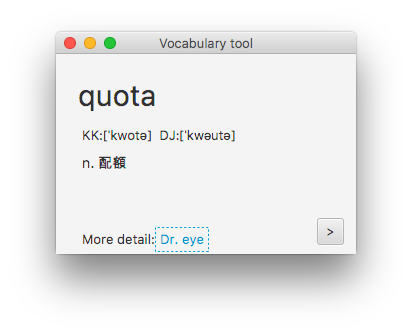
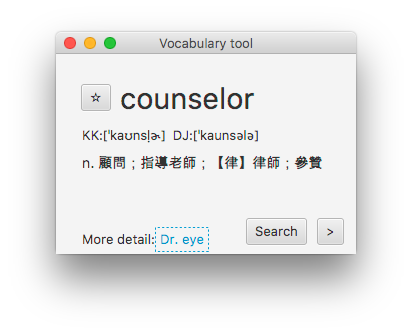
Add favorite function
Enable favorite button and save favorite list to local disk.

diff --git a/src/futin/view/MainController.java b/src/futin/view/MainController.java
@@ -3,6 +3,8 @@ package futin.view;
 import futin.Main;
 import futin.Parameter;
 import futin.Vocabulary;
+import futin.util.FileUtils;
+import futin.util.TextUtils;
 import javafx.event.ActionEvent;
 import javafx.fxml.FXML;
 import javafx.scene.control.Button;
@@ -42,6 +44,11 @@ public class MainController {
     private Label mLoadingLabel;
 
     @FXML
+    private Button mStarButton;
+
+    private Vocabulary mCurrentVocabulary;
+
+    @FXML
     private void initialize() {
         mChineseLabel.setWrapText(true);
         mChineseLabel.setTextAlignment(TextAlignment.JUSTIFY);
@@ -65,6 +72,9 @@ public class MainController {
                     e.printStackTrace();
                 }
             });
+
+            mCurrentVocabulary = vocabulary;
+            updateStartItUI(isFavoriteVocabulary(mCurrentVocabulary));
         }
     }
 
@@ -81,11 +91,13 @@ public class MainController {
     public void loadingNextVocabulary() {
         showLoadingNextVocabulary();
         mNextButton.setVisible(false);
+        mStarButton.setVisible(false);
     }
 
     public void finishLoadingNextVocabulary() {
         hideLoadingNextVocabulary();
         mNextButton.setVisible(true);
+        mStarButton.setVisible(true);
     }
 
     @FXML
@@ -97,6 +109,34 @@ public class MainController {
                     mMain.nextVocabulary();
                 }
             });
+            thread.start();
         }
+    }
+
+    @FXML
+    private void handleStarIt() {
+        if (mCurrentVocabulary != null && !isFavoriteVocabulary(mCurrentVocabulary)) {
+            java.util.List<Vocabulary> favoriteVocabularies = FileUtils.readVocabularyList(FileUtils.getSaveFile());
+            favoriteVocabularies.add(mCurrentVocabulary);
+            updateStartItUI(true);
+            FileUtils.saveVocabularyList(FileUtils.getSaveFile(), favoriteVocabularies);
+        }
+    }
+
+    void updateStartItUI(boolean isStar) {
+        mStarButton.setText(isStar ? "★" : "☆");
+    }
+
+    boolean isFavoriteVocabulary(Vocabulary vocabulary) {
+        if (vocabulary == null || TextUtils.isEmpty(vocabulary.getEnglish())) {
+            return false;
+        }
+        java.util.List<Vocabulary> favoriteVocabularies = FileUtils.readVocabularyList(FileUtils.getSaveFile());
+        for (Vocabulary tmpVoc : favoriteVocabularies) {
+            if (TextUtils.equals(tmpVoc.getEnglish(), vocabulary.getEnglish())) {
+                return true;
+            }
+        }
+        return false;
     }
 }

diff --git a/src/futin/util/FileUtils.java b/src/futin/util/FileUtils.java
@@ -1,0 +1,65 @@
+package futin.util;
+
+import futin.Vocabulary;
+import futin.model.VocabularyListWrapper;
+import javafx.scene.control.Alert;
+
+import javax.xml.bind.JAXBContext;
+import javax.xml.bind.Marshaller;
+import javax.xml.bind.Unmarshaller;
+import java.io.File;
+import java.util.ArrayList;
+import java.util.List;
+
+public class FileUtils {
+
+    private static final String SAVE_PATH = "./favorite_list.xml";
+
+    public static File getSaveFile() {
+        return new File(SAVE_PATH);
+    }
+
+    public static List<Vocabulary> readVocabularyList(File file) {
+        List<Vocabulary> vocabularyList = new ArrayList<>();
+        try {
+            JAXBContext context = JAXBContext.newInstance(VocabularyListWrapper.class);
+            Unmarshaller um = context.createUnmarshaller();
+
+            VocabularyListWrapper wrapper = (VocabularyListWrapper) um.unmarshal(file);
+            vocabularyList = wrapper.getVocabularyList();
+        } catch (Exception e) {
+            Alert alert = new Alert(Alert.AlertType.ERROR);
+            alert.setTitle("Error");
+            alert.setHeaderText("Could not load favorite vocabularies");
+            alert.setContentText("Could not load favorite vocabularies from file:\n" + file.getPath());
+
+            alert.showAndWait();
+        }
+        if (vocabularyList == null) {
+            vocabularyList = new ArrayList<>();
+        }
+        return vocabularyList;
+    }
+
+    public static void saveVocabularyList(File file, List<Vocabulary> vocabularyList) {
+        if (vocabularyList != null) {
+            try {
+                JAXBContext context = JAXBContext.newInstance(VocabularyListWrapper.class);
+                Marshaller m = context.createMarshaller();
+                m.setProperty(Marshaller.JAXB_FORMATTED_OUTPUT, true);
+
+                VocabularyListWrapper wrapper = new VocabularyListWrapper();
+                wrapper.setVocabularyList(vocabularyList);
+
+                m.marshal(wrapper, file);
+            } catch (Exception e) {
+                Alert alert = new Alert(Alert.AlertType.ERROR);
+                alert.setTitle("Error");
+                alert.setHeaderText("Could not save favorite vocabularies");
+                alert.setContentText("Could not save favorite vocabularies to file:\n" + file.getPath());
+
+                alert.showAndWait();
+            }
+        }
+    }
+}

diff --git a/src/futin/LoadWordTask.java b/src/futin/LoadWordTask.java
@@ -1,10 +1,9 @@
 package futin;
 
 import futin.util.TextUtils;
-import futin.util.Util;
+import futin.util.Utils;
 
 import java.io.*;
-import java.net.MalformedURLException;
 import java.net.URL;
 import java.net.URLConnection;
 import java.util.ArrayList;
@@ -71,7 +70,6 @@ public class LoadWordTask extends TimerTask {
 
         mCallback.update(new Vocabulary(vocabulary, phonetic, chinese));
 
-
         mCallback.postExecute();
     }
 
@@ -105,8 +103,8 @@ public class LoadWordTask extends TimerTask {
         } catch (IOException e) {
             e.printStackTrace();
         } finally {
-            Util.closeClosable(fr);
-            Util.closeClosable(br);
+            Utils.closeClosable(fr);
+            Utils.closeClosable(br);
         }
 
         return "";
@@ -140,7 +138,7 @@ public class LoadWordTask extends TimerTask {
         } catch (IOException e) {
             e.printStackTrace();
         } finally {
-            Util.closeClosable(br);
+            Utils.closeClosable(br);
         }
 
         return content.toString();

diff --git a/src/futin/model/VocabularyListWrapper.java b/src/futin/model/VocabularyListWrapper.java
@@ -1,0 +1,22 @@
+package futin.model;
+
+import futin.Vocabulary;
+
+import javax.xml.bind.annotation.XmlElement;
+import javax.xml.bind.annotation.XmlRootElement;
+import java.util.List;
+
+@XmlRootElement(name = "vocabularies")
+public class VocabularyListWrapper {
+
+    private List<Vocabulary> mVocabularyList;
+
+    @XmlElement(name = "vocabulary")
+    public List<Vocabulary> getVocabularyList() {
+        return mVocabularyList;
+    }
+
+    public void setVocabularyList(List<Vocabulary> vocabularyList) {
+        mVocabularyList = vocabularyList;
+    }
+}

diff --git a/src/futin/util/TextUtils.java b/src/futin/util/TextUtils.java
@@ -5,4 +5,11 @@ public class TextUtils {
     public static boolean isEmpty(String a) {
         return a == null || a.equals("");
     }
+
+    public static boolean equals(String arg1, String arg2) {
+        if (arg1 == null || arg2 == null) {
+            return false;
+        }
+        return arg1.equals(arg2);
+    }
 }

diff --git a/src/futin/util/Utils.java b/src/futin/util/Utils.java
@@ -3,7 +3,7 @@ package futin.util;
 import java.io.Closeable;
 import java.io.IOException;
 
-public class Util {
+public class Utils {
 
     public static void closeClosable(Closeable object) {
         if (object != null) {

diff --git a/README.md b/README.md
@@ -6,6 +6,9 @@ This application will pin the top on the screen and show an English word and Chi
 
 
 ## Release note
+### 0.2.0.170619
+Save favorite vocabulary.
+
 ### 0.1.0.170604
 First version. Provide the simplest word card.
 
